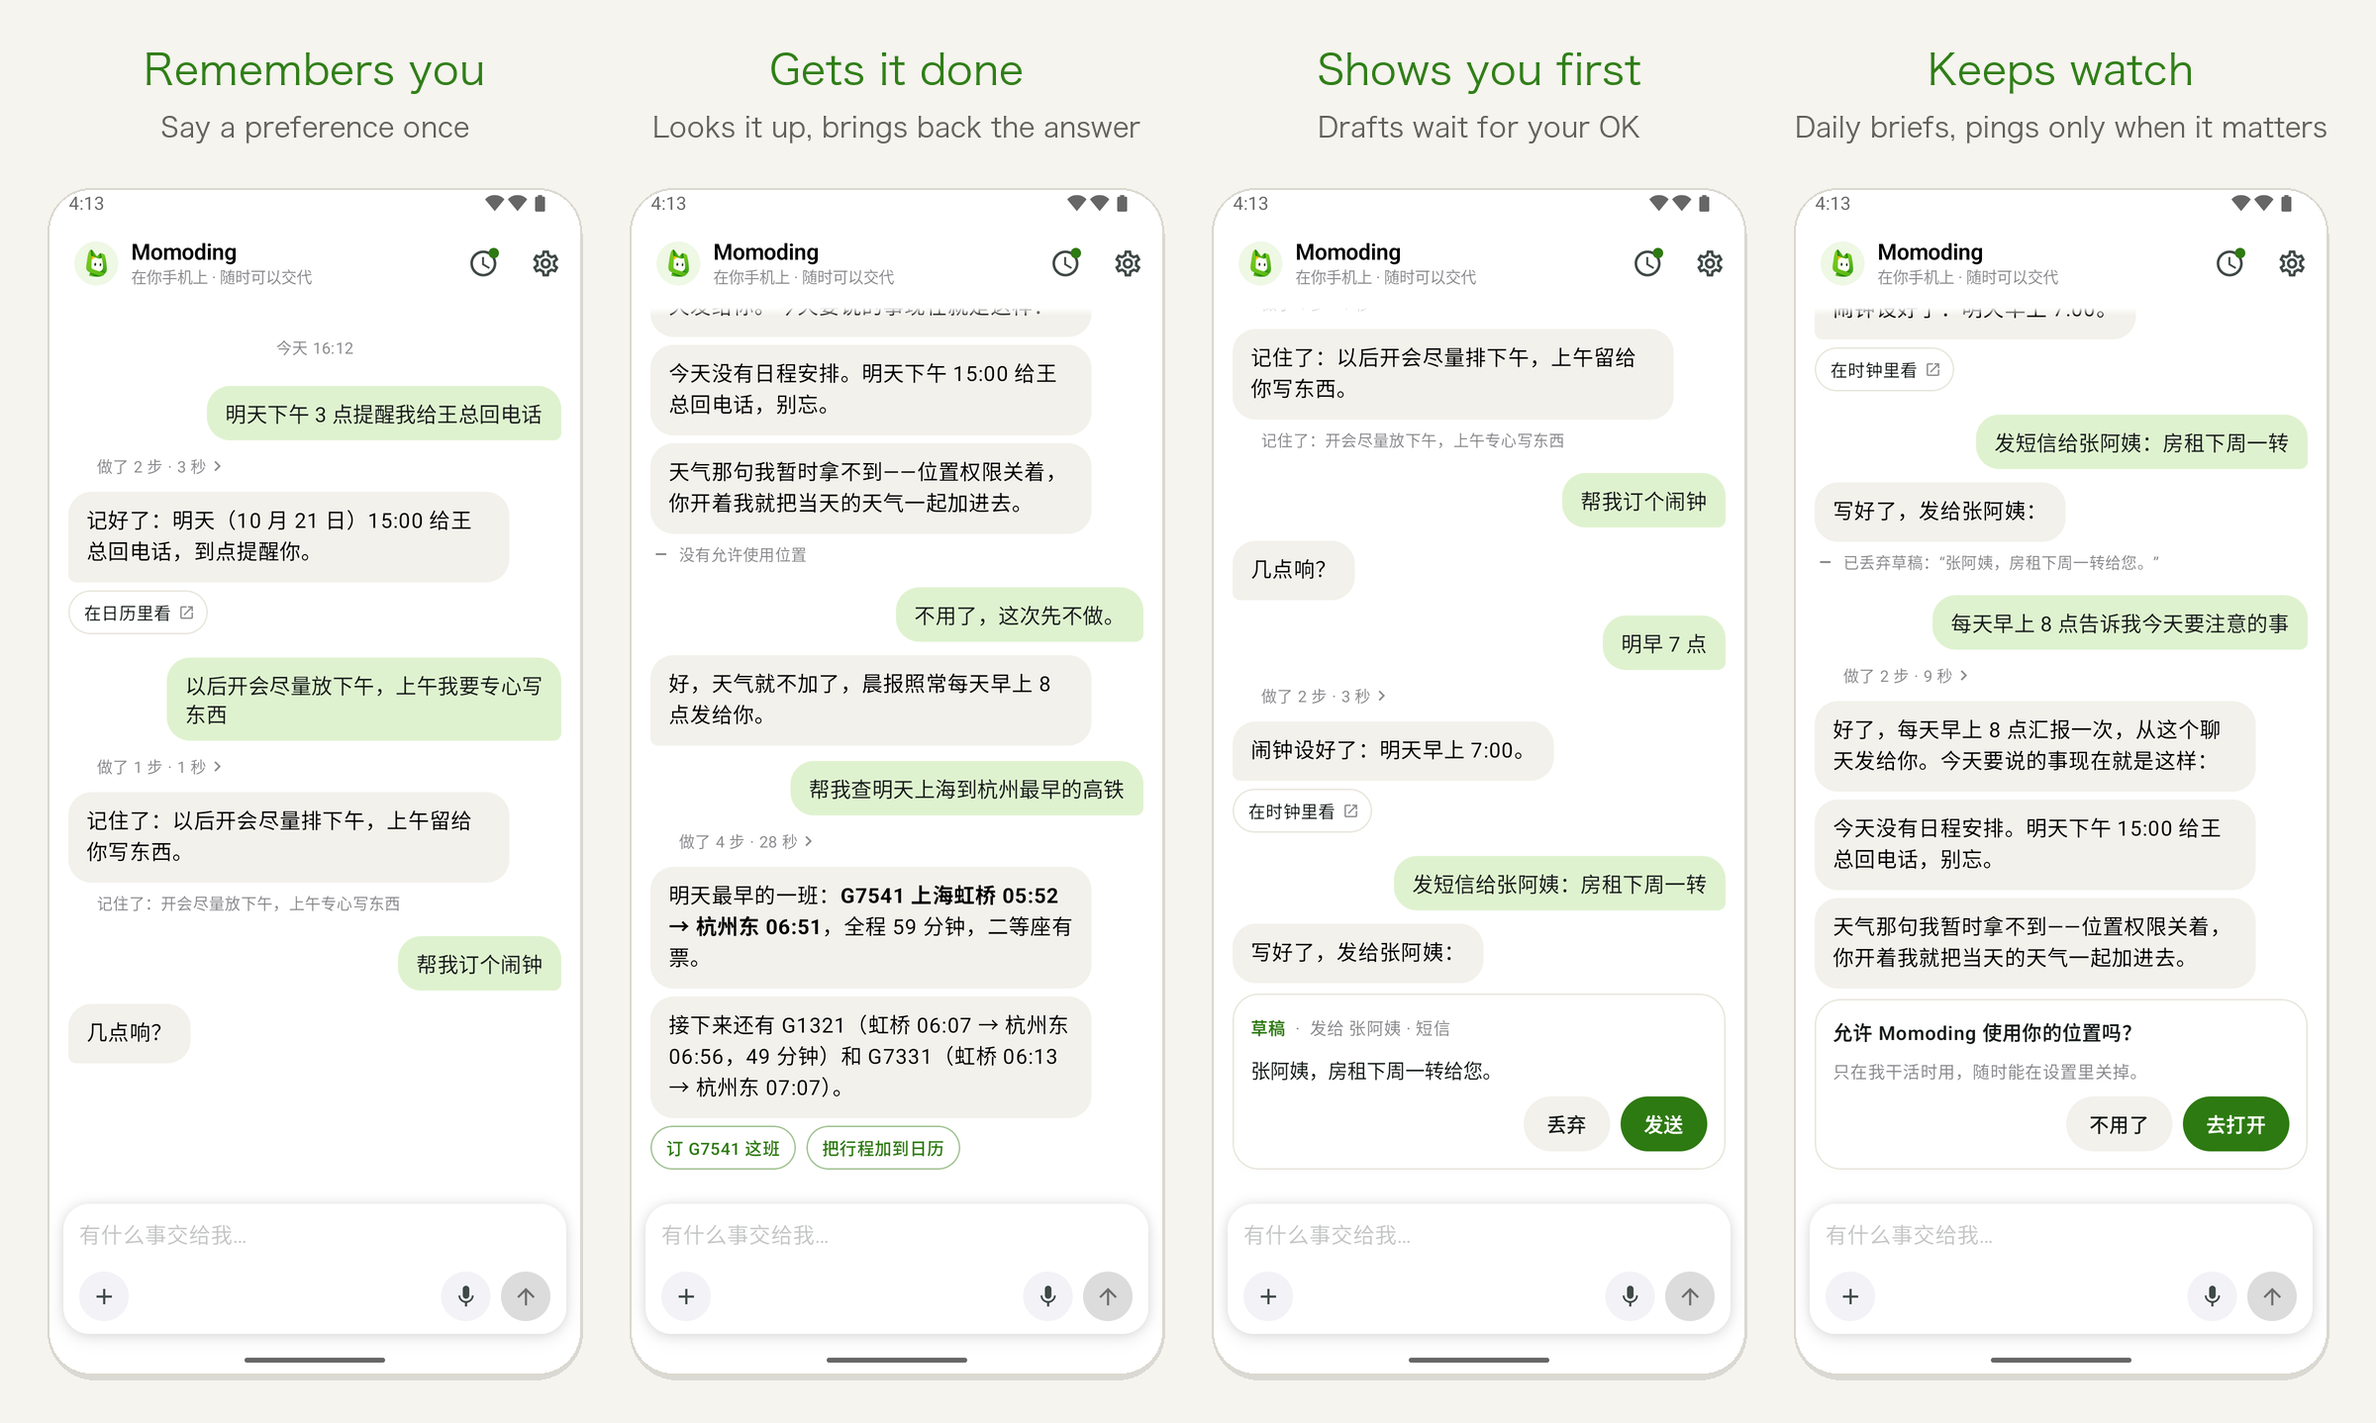
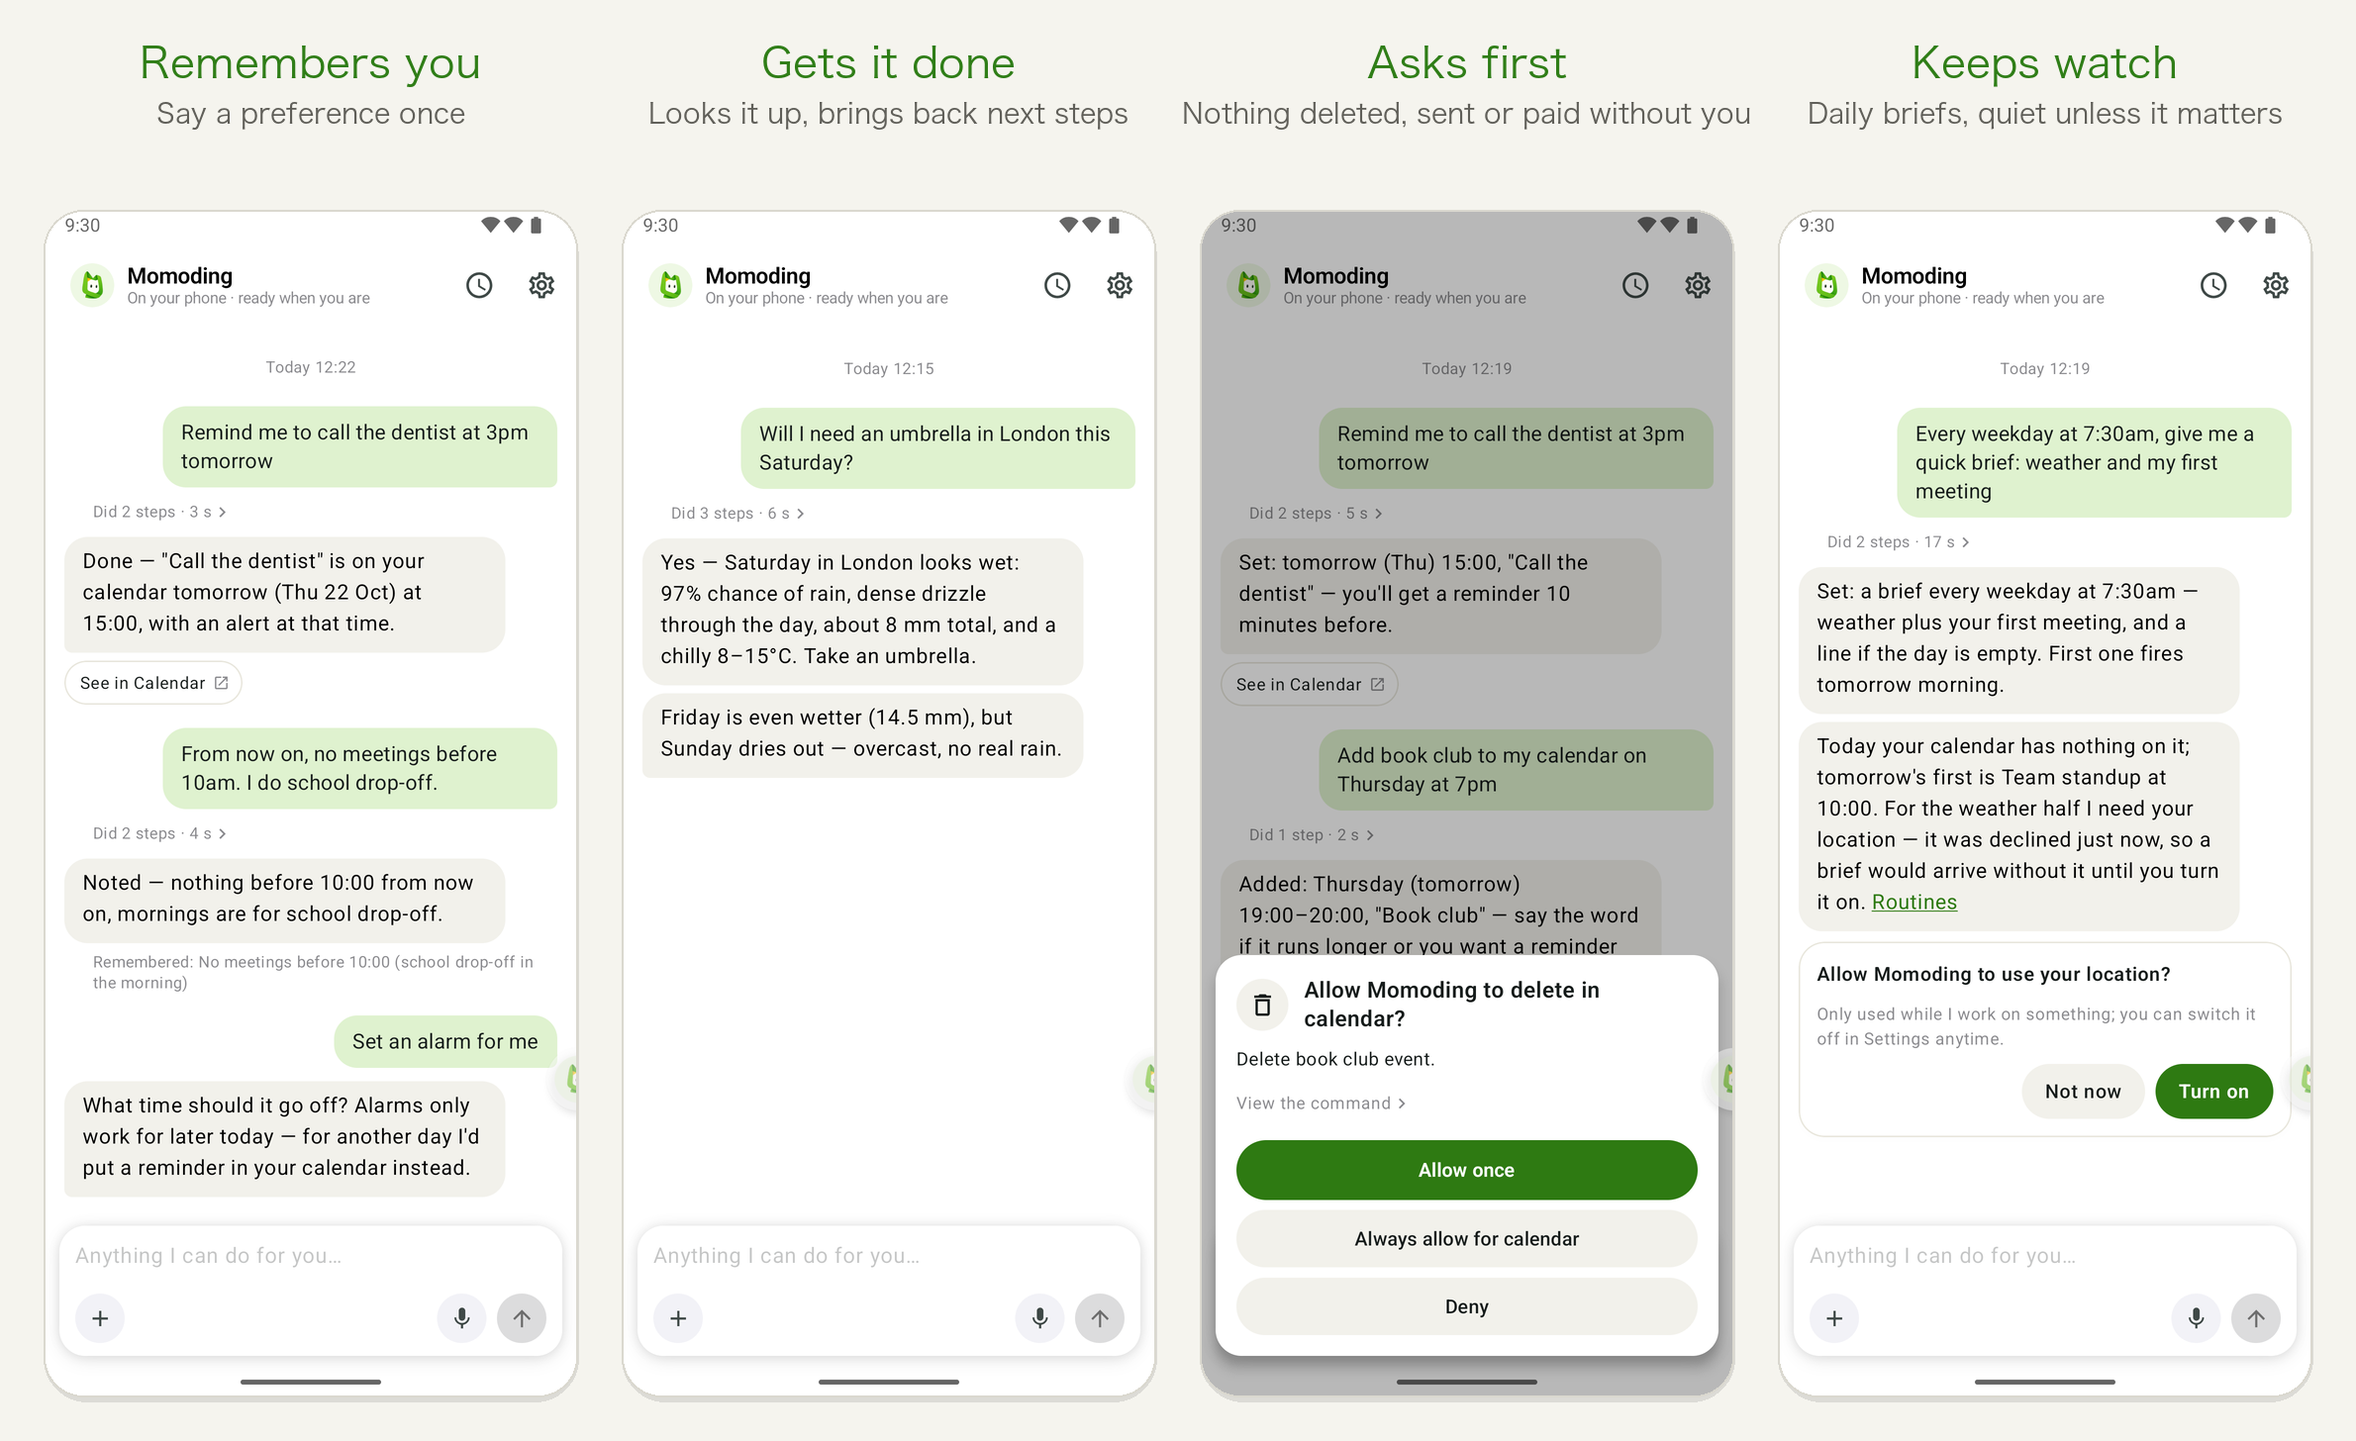
GitHub launch: bilingual README with real emulator screenshots (Chinese and localized English cases), 8-feature galleries, 1.0.0 release notes with signing fingerprint; OpenRouter test expects Momoding's Referer and title

diff --git a/src/android/app/src/test/java/com/openminis/app/provider/voice/OpenRouterVoiceRoutingTest.kt b/src/android/app/src/test/java/com/openminis/app/provider/voice/OpenRouterVoiceRoutingTest.kt
@@ -237,8 +237,8 @@ class OpenRouterVoiceRoutingTest {
                 VoiceOutputRequest(input = "hi", model = "fish-audio/s1", voice = voice),
             )
             assertTrue(req.url.toString().endsWith("/api/v1/audio/speech"))
-            assertEquals("https://github.com/OpenMinis/OpenMinis", req.header("HTTP-Referer"))
-            assertEquals("Minis App", req.header("X-Title"))
+            assertEquals("https://github.com/1zhangyy1/momoding", req.header("HTTP-Referer"))
+            assertEquals("Momoding", req.header("X-Title"))
             assertEquals("Bearer sk-test", req.header("Authorization"))
             val buf = Buffer()
             req.body!!.writeTo(buf)

diff --git a/docs/releases/1.0.0.md b/docs/releases/1.0.0.md
@@ -11,25 +11,28 @@
 - **提醒、日程、闹钟**：一句话建好，附"在日历里看"
 - **记住你**：说一次偏好，以后办事自动用上
 - **缺信息只问一个问题**，不乱猜
-- **草稿卡**：替你写消息，你点了"发送"才发出去
+- **草稿卡**：替你写短信，你点了"发送"才发出去；用系统短信直接发，一两秒就好。没给发短信权限的话，会打开短信 App 把内容填好
 - **上网查**：带回结果和下一步按钮
 - **例行任务**：每天定时汇报，没要紧事不打扰
-- **动手操作屏幕**（实验性）：打开无障碍后替你操作其他 App，随时能停
+- **动手操作屏幕**（实验性）：打开无障碍后替你操作其他 App。先读界面上的元素、按编号点，必要时才截图，模拟器同一批测试里做对 10/10（旧的纯截图方式是 8/10）。能打开手机上所有带图标的 App，包括微信、美团、电话；"停止"一点就停
 - **先问你**：删除、发送、付款前出审批卡，"始终允许"可变成规则
 - **看过程**：每条回复都能展开看它做了哪几步
+- **权限就地开**：需要屏幕操作时，对话里出一张卡片，直接带你到系统开关；开好回来它会自己接着做。开关是灰色的（APK 安装后系统限制的设置）也会说明怎么解开
+- **借屏时不挡手**：它操作屏幕时你照样能点（修了 Android 12 以上全屏透明层挡触摸的问题）
+- **后台屏**（实验性）：装了 Shizuku 的手机，它可以在一块看不见的后台屏上操作，不占你的屏幕；目前只在 Android 15 模拟器上验证过
 - 首次使用预设 DeepSeek、Kimi、通义千问、智谱、豆包、硅基流动，选一家自动配好对话和看图模型
 
 ### 安装
 
-1. 下载下方的 `Momoding-1.0.0.apk`，可以用 `.sha256` 文件核对完整性
+1. 下载下方的 `Momoding-1.0.0.apk`，可以用 `.sha256` 文件核对完整性。安装包用 Momoding 自己的正式签名，证书 SHA-256：`C4:DF:70:5C:61:4B:53:83:36:CC:23:AB:00:0E:F4:D5:D2:AC:F4:8E:80:7D:CE:5D:69:35:A4:C5:D0:31:F9:DB`
 2. Android 8.0 及以上
-3. **装过 0.1.0-alpha 版的请先卸载**：新版换了底座和签名，不能覆盖升级
+3. **装过旧版 Momoding 的请先卸载**（包括 0.1.0-alpha 和任何测试版）：新版换了底座和签名，不能覆盖升级。之后的版本都用这个签名，可以直接覆盖升级
 
 ### 已知情况
 
 - 预览版主要在模拟器和少数真机上测过，国产系统（MIUI/HyperOS、ColorOS 等）的后台保活还在测试，例行任务可能被系统杀掉，需要把 Momoding 加入后台白名单
 - "动手操作屏幕"在部分 App 上不稳定
-- 界面以中文为主，英文可用，其他语言部分界面仍为上游原文
+- 中文和英文界面都已打磨过，回复会跟着你说话的语言走；其他语言的部分界面仍是上游原文
 
 遇到问题请[提 Issue](https://github.com/1zhangyy1/momoding/issues/new/choose)，App 里 设置 → 反馈 也能直接打开并自动填好版本和机型。
 
@@ -39,8 +42,8 @@
 
 **An assistant that lives on your phone and gets things done.** This release is a new generation of Momoding, rebuilt on [OpenMinis](https://github.com/OpenMinis/OpenMinis).
 
-**What it can do:** reminders, events and alarms from a single sentence; preferences it remembers; one question when a detail is missing; drafts that only go out when you tap Send; web lookups with next-step buttons; daily routines that stay quiet unless something matters; experimental screen operation of other apps through Accessibility; approval cards before deleting, sending or paying; and a step-by-step view of every task.
+**What it can do:** reminders, events and alarms from a single sentence; preferences it remembers; one question when a detail is missing; drafts that only go out when you tap Send; web lookups with next-step buttons; daily routines that stay quiet unless something matters; experimental screen operation of other apps through Accessibility (it reads the screen's elements and taps by number, screenshotting only when needed: 10/10 in our emulator test set versus 8/10 for the old screenshot-only approach; it can open every app with a launcher icon, and Stop stops it at once); SMS drafts sent straight through the phone's SMS service; permission cards that take you to the right system switch and carry on afterwards; it no longer blocks your touches while it works; an experimental hidden background screen for phones with Shizuku (verified on an Android 15 emulator only); approval cards before deleting, sending or paying; and a step-by-step view of every task.
 
-**Install:** download `Momoding-1.0.0.apk` below. It needs Android 8.0 or newer. **Uninstall any 0.1.0-alpha build first**: 1.0 is a new codebase with a different signing key, so it can't update the old app in place.
+**Install:** download `Momoding-1.0.0.apk` below. It needs Android 8.0 or newer. **Uninstall any earlier Momoding build first**: 1.0 is a new codebase with a new signing key, so it can't update the old app in place. Future releases keep this key and update in place. Certificate SHA-256: `C4:DF:70:5C:61:4B:53:83:36:CC:23:AB:00:0E:F4:D5:D2:AC:F4:8E:80:7D:CE:5D:69:35:A4:C5:D0:31:F9:DB`.
 
-**Known issues:** this is a preview. Background reliability on heavily customised Android builds is still being tested. Screen operation is experimental. The interface is Chinese-first; English works, and other languages still show some upstream text.
+**Known issues:** this is a preview. Background reliability on heavily customised Android builds is still being tested. Screen operation is experimental. Chinese and English are polished, and replies follow the language you write in. Other languages still show some upstream text.

diff --git a/README.en.md b/README.en.md
@@ -24,7 +24,7 @@ Tell it what you saw or thought of. It uses what's on your phone to handle it, r
   <img src="docs/assets/hero-en.png" alt="Momoding remembers you, gets things done, shows you drafts first, and keeps watch" width="960" />
 </p>
 
-<p align="center"><sub>Real screenshots from an Android emulator, running DeepSeek V4.1 Flash. The app's interface is Chinese-first; English is supported.</sub></p>
+<p align="center"><sub>Real screenshots from an Android emulator with the English interface, running DeepSeek V4.1 Flash.</sub></p>
 
 > **1.0 preview.** Good for everyday trial use, but it is moving fast. Most polishing so far happened on an emulator and a few real phones, and background reliability on heavily customised Android builds is still being tested. Please [open an issue](https://github.com/1zhangyy1/momoding/issues/new/choose) when something goes wrong.
 
@@ -34,7 +34,7 @@ Tell it what you saw or thought of. It uses what's on your phone to handle it, r
 
 AI chat apps are great at answering questions. The small chores on your phone still fall to you, though: you **re-type** things, **remember** them, and **keep checking** on them.
 
-- A meeting notice arrives as a screenshot, and you copy the time and place into your calendar by hand, then set a reminder.
+- The school emails a trip notice, and you copy the date into your calendar by hand, then set a reminder.
 - You tell a chatbot to "remember this", and next time it has forgotten.
 - You want to know when tickets become available or a price drops, so you check again every few hours.
 
@@ -42,9 +42,9 @@ Momoding takes those three jobs off your hands:
 
 | | What it does for you |
 | - | - |
-| **Less re-typing** | Hand it a screenshot, a notification or a file, and the event, reminder, alarm or draft gets created. You get a one-line result plus a "View in Calendar" button. |
-| **Less remembering** | Say "keep meetings in the afternoon" once and it applies that from then on. If it got something wrong, one sentence fixes it. |
-| **Less watching** | "Every morning at 8, tell me what to look out for today." "Watch this page and tell me when it changes." It only reaches out when something actually changed. |
+| **Less re-typing** | Hand it a screenshot, a notification or a file, and the event, reminder, alarm or draft gets created. You get a one-line result plus a "See in Calendar" button. |
+| **Less remembering** | Say "no meetings before 10am, I do school drop-off" once and it applies that from then on. If it got something wrong, one sentence fixes it. |
+| **Less watching** | "Every weekday at 7:30am, give me a quick brief." "Watch this page and tell me when it changes." It only reaches out when something actually changed. |
 
 ## How it's different
 
@@ -58,14 +58,16 @@ Momoding takes those three jobs off your hands:
 
 ## What it can do today
 
+<p align="center"><img src="docs/assets/features-en.png" alt="Reminders and events, remembering you, drafts, web lookups, step view, approval cards, routines and screen operation" width="880" /></p>
+
 **Say it once, in the chat:**
 
-- **Reminders, events and alarms**: "Remind me tomorrow at 3pm to call Mr. Wang back" creates the reminder and shows a "View in Calendar" button.
-- **Preferences**: "Keep meetings in the afternoon from now on" adds a small "Remembered" note, and future scheduling follows it.
+- **Reminders, events and alarms**: "Remind me to call the dentist at 3pm tomorrow" creates the reminder and shows a "See in Calendar" button.
+- **Preferences**: "From now on, no meetings before 10am, I do school drop-off" adds a small "Remembered" note, and future scheduling follows it.
 - **One question when it needs one**: "Set an alarm for me" gets a reply of "What time?" instead of a guess.
-- **Drafts you approve**: "Text Auntie Zhang: rent goes out next Monday" produces an editable draft card. Nothing is sent until you tap Send.
-- **Web lookups**: "Find the earliest train from Shanghai to Hangzhou tomorrow" brings back the answer with next-step buttons such as "Book this one" and "Add to calendar".
-- **Routines**: "Every morning at 8, tell me what to look out for today" does a trial run first, then reports on schedule, and stays quiet when there's nothing that matters.
+- **Drafts you approve**: "Text Sarah: running 10 minutes late" produces an editable draft card. Nothing is sent until you tap Send.
+- **Web lookups**: "Will I need an umbrella in London this Saturday?" checks the forecast and answers in a sentence, with next-step buttons when there is something to do.
+- **Routines**: "Every weekday at 7:30am, give me a quick brief: weather and my first meeting" does a trial run first, then reports on schedule, and stays quiet when there's nothing that matters.
 - **Operating other apps on your screen** (experimental): with the Accessibility permission on, it can tap, scroll and type for you. A capsule on screen shows that it's working, and you can stop it at any time.
 
 **You stay in charge:**
@@ -88,7 +90,7 @@ Momoding takes those three jobs off your hands:
 3. Type your first request, or tap one of the examples on the empty chat.
 4. To let it operate other apps, go to Settings → Phone permissions → **Hands** and follow the prompts to turn on Accessibility and the overlay permission. Everything else works without it.
 
-> If you installed a Momoding 0.1.0-alpha build, uninstall it first. Version 1.0 is a new codebase with a different signing key, so it can't update the old app in place.
+> If you installed any earlier Momoding build (including 0.1.0-alpha and test builds), uninstall it first. Version 1.0 is a new codebase with a new signing key, so it can't update the old app in place. From 1.0 on the key stays the same, so later versions update in place.
 
 ## Build from source
 

diff --git a/README.md b/README.md
@@ -58,6 +58,8 @@ Momoding 想把这三件事接过来：
 
 ## 现在能做什么
 
+<p align="center"><img src="docs/assets/features-zh.png" alt="提醒和日程、记住你、草稿、上网查、看过程、先问你、例行任务、动手操作屏幕" width="880" /></p>
+
 **对话里交代一句就办：**
 
 - **提醒、日程、闹钟**："明天下午 3 点提醒我给王总回电话" → 建好，附"在日历里看"。
@@ -90,7 +92,7 @@ Momoding 想把这三件事接过来：
 3. 在对话框里交代第一件事，或者点空白页上的例子试试。
 4. 想让它替你操作其他 App：设置 → 手机权限 → **动手操作屏幕**，按提示打开无障碍和悬浮窗。不开也能用其他功能。
 
-> 以前装过 Momoding 0.1.0-alpha 版的话，请先卸载旧版再装 1.0。新版换了底座和签名，不能直接覆盖升级。
+> 以前装过任何旧版 Momoding（包括 0.1.0-alpha 和测试版）的话，请先卸载旧版再装 1.0。新版换了底座和签名，不能直接覆盖升级；从 1.0 起签名固定，以后的版本都能直接覆盖升级。
 
 ## 常见问题
 
